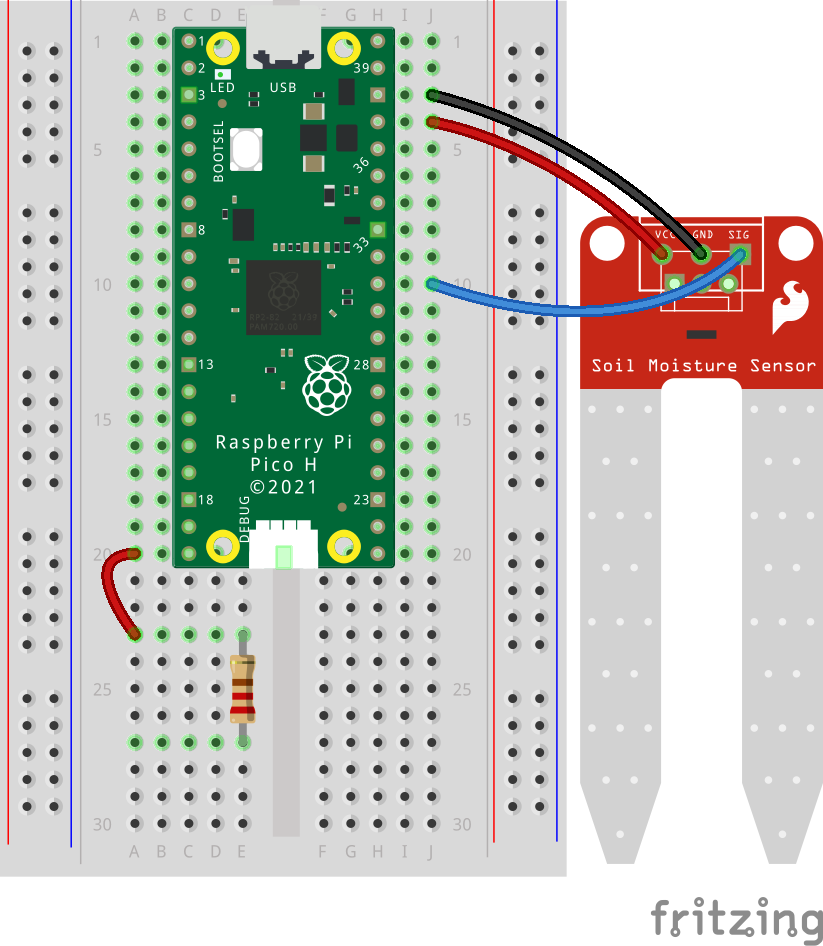
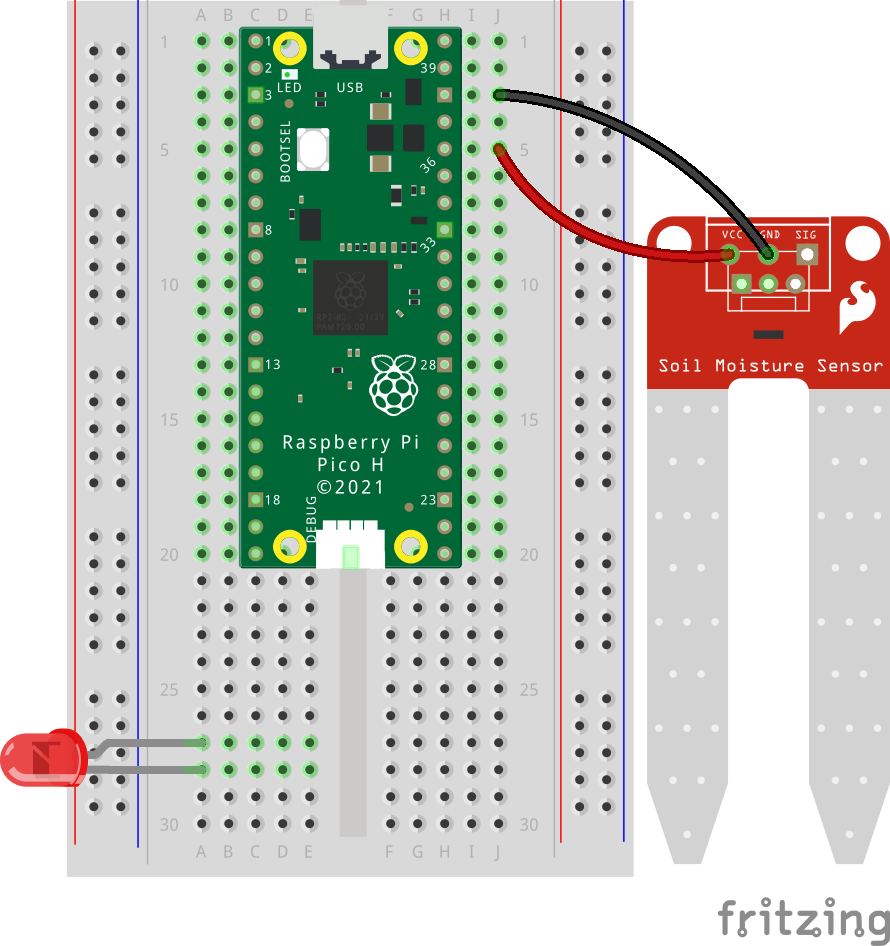
update probe images

diff --git a/en/step_3.md b/en/step_3.md
@@ -1,6 +1,7 @@
 ## Wire the Sensor Circuit
 
-Connect the metal screws to the pins on the Pico so you can measure the resistance of the soil.
+Connect the probe to the pins on the Pico so you can measure the resistance of the soil.
+
 
 --- task ---
  
@@ -8,6 +9,53 @@ Set the Raspberry Pi Pico securely on a breadboard or workspace so you can easil
 ![](images/probe1.png)
 
 --- /task ---
+
+--- collapse ---
+
+---
+
+title: I have a moisture probe component - I don't want to use screws!
+
+---
+
+The moisture probe component requires a power suppply to work. Follow these instructions to substitute the moisture probe for the two-screws probe example:
+
+--- task ---
+
+Connect the **VCC** pin on the soil moisture sensor to the **3V3 (OUT)** pin on the Raspberry Pi Pico (pin 36). This provides the sensor with a 3.3V power supply. 
+![](images/probe_probe_3.png){:width="300px"} 
+
+--- /task ---
+
+--- task ---
+
+Connect the **GND** pin on the soil moisture sensor to one of the **GND** pins on the Pico (pin 38). This completes the power circuit.  
+![](images/probe_probe_2.png){:width="300px"}
+
+--- /task ---
+
+--- task ---
+
+Attach a jumper wire from the **SIG** (signal) pin on the soil moisture sensor to **Pin 31 (GP26 / ADC0)** on the Pico. This allows the Pico to read the analogue signal representing soil moisture. 
+![](images/probe_probe_1.png){:width="300px"} 
+
+--- /task ---
+
+--- task ---
+
+**Test:** Make sure there are no short circuits or broken connections:  
+- Gently move each jumper and connection to check there is a firm connection between the pins and breadboard.
+- Double-check that the probe doesn't contact the Pico board or any metal parts of your workspace.
+
+--- /task ---
+
+--- task ---
+
+[Follow the rest of the instructions as normal on the **next step**](https://projects.raspberrypi.org/en/projects/pico-probe/3){:target="_blank"}!
+
+--- /task ---
+
+--- /collapse ---
 
 --- task ---
  
@@ -18,7 +66,7 @@ Join a wire from **Probe A** to one end of a **10 kΩ resistor**; with a **termi
 
 --- task ---
  
-Attach the free end of the resistor to **Pin 26 (ADC0)** on the Pico. This pin reads the changing voltage from the probe.
+Attach the free end of the resistor to **Pin 31 (GP26 / ADC0)** on the Pico. This pin reads the changing voltage from the probe.
 ![](images/screws_probe_0.png){:width="300px"}
 
 --- /task ---
